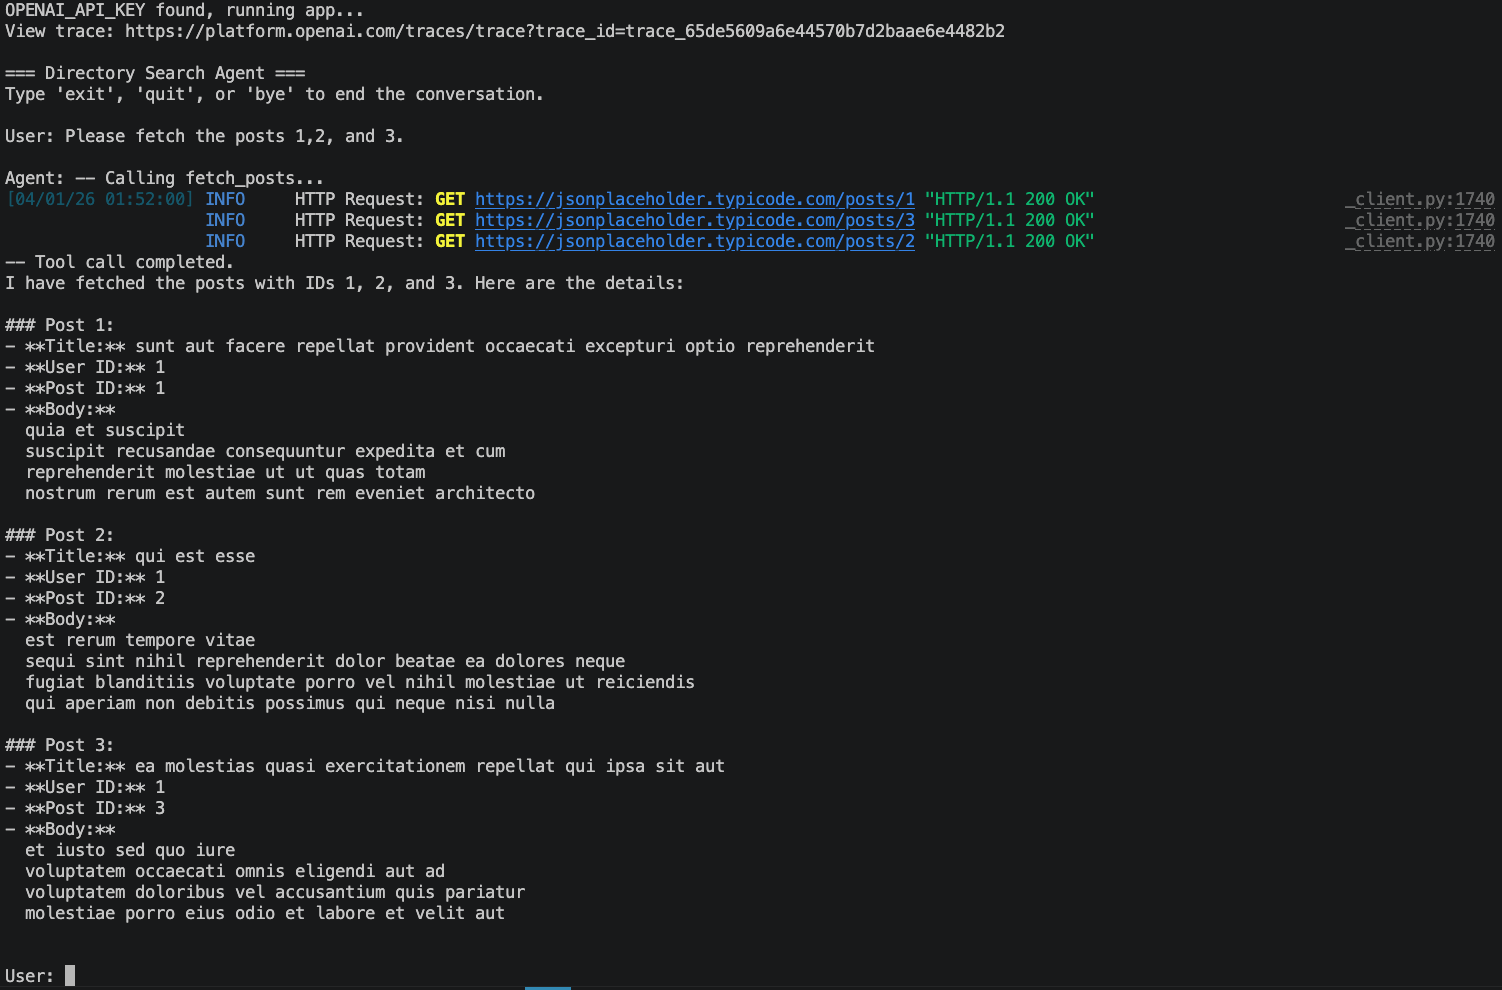
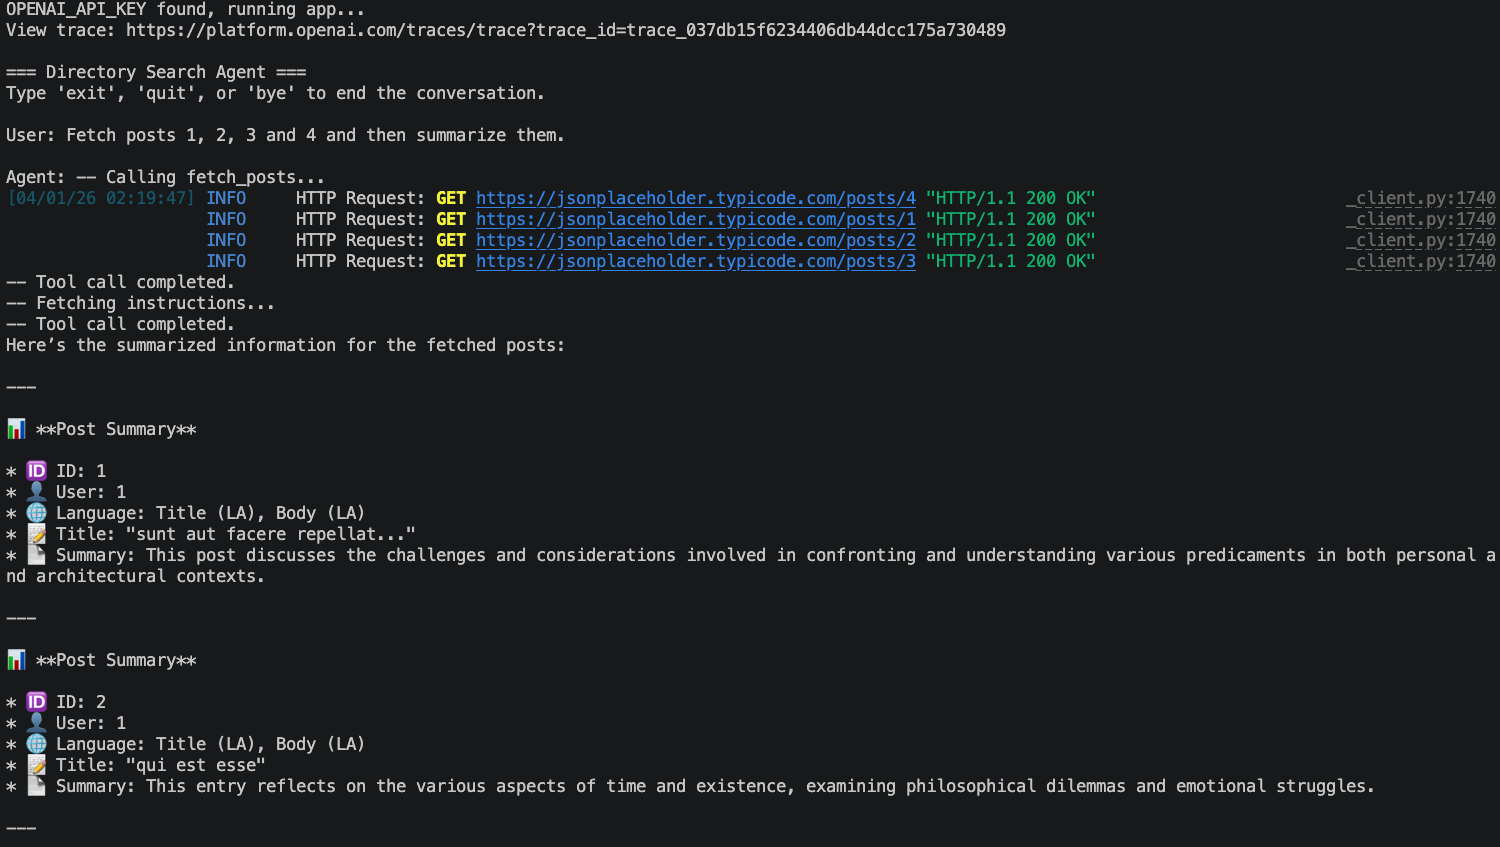
Changed model and md file for posts summary

diff --git a/mcp-server/search-mcp.py b/mcp-server/search-mcp.py
@@ -93,7 +93,7 @@ def fetch_search_instructions(prompt_name: str) -> str:
         - generate_documentation
         - extract_structured_data
         - report_path_type_check
-        - write_post_summary
+        - write_posts_summary
         - write_s3_file_summary
 
     Returns:
@@ -184,7 +184,7 @@ def check_path_type(paths: list[str]) -> dict:
     return result
 
 
-async def fetch_single_post(client: httpx.AsyncClient, post_id: int) -> dict:
+async def _fetch_single_post(client: httpx.AsyncClient, post_id: int) -> dict:
     url = f"https://jsonplaceholder.typicode.com/posts/{post_id}"
 
     try:
@@ -214,7 +214,7 @@ async def fetch_posts(request: PostRequest) -> dict:
     """
 
     async with httpx.AsyncClient() as client:
-        tasks = [fetch_single_post(client, post.post_id) for post in request.posts]
+        tasks = [_fetch_single_post(client, post.post_id) for post in request.posts]
 
         results = await asyncio.gather(*tasks)
 

diff --git a/main.py b/main.py
@@ -56,7 +56,7 @@ async def run(mcp_server: MCPServer):
         name="Directory Search Agent",
         instructions=instructions,
         mcp_servers=[mcp_server],
-        model="gpt-3.5-turbo",
+        model="gpt-4o-mini-2024-07-18",
     )
 
     conversation_history = []

diff --git a/mcp-server/prompts/system_instructions.md b/mcp-server/prompts/system_instructions.md
@@ -17,10 +17,58 @@ Use this tool when you need to open and read the contents of a specific file ide
 Use this tool whenever you need to verify whether a given path is a **file** or a **directory** before performing further operations.
 
 ### fetch_posts
-Use this tool when you need to retrieve data from an external API for multiple post ids. 
 
-- Input: A numeric post ID  
-- Output: A structured JSON object (as a dictionary)
+Use this tool when you need to retrieve data from an external API for **multiple post IDs**.
+
+* **Input**: A structured JSON object with the following format:
+
+```json
+{
+  "request": {
+    "posts": [
+      { "post_id": <number> },
+      { "post_id": <number> }
+    ]
+  }
+}
+```
+
+* **Constraints**:
+
+  * Each `post_id` must be a **positive integer**
+  * Maximum of **20 post IDs** per request
+  * Duplicate IDs are **automatically removed**
+
+* **Output**: A structured JSON object:
+
+```json
+{
+  "count": <number>,
+  "results": [
+    {
+      "post_id": <number>,
+      "data": {
+        "userId": <number>,
+        "id": <number>,
+        "title": <string>,
+        "body": <string>
+      }
+    },
+    {
+      "post_id": <number>,
+      "error": <string>
+    }
+  ]
+}
+```
+
+* Each result corresponds to one requested `post_id`
+* Results may include:
+
+  * ✅ `data` for successful fetches
+  * ❌ `error` if the post was not found or the request failed
+* The order of results matches the processed (deduplicated) input
+
 
 ### read_s3_file_content
 Use this tool when you need to read a file from an S3 bucket. 
@@ -37,7 +85,7 @@ Use this tool to get **specialized instructions** for common user requests, incl
 - Generating documentation from code  
 - Extracting structured information from files
 - Report on the number of files and directories
-- Write a summary for a post fetched from an api
+- Write a summary for posts fetched from an api
 - Write a summary for a file's content fetched from S3
 
 To fetch the correct instructions, pass one of the following **exact** prompts:
@@ -45,7 +93,7 @@ To fetch the correct instructions, pass one of the following **exact** prompts:
 - generate_documentation  
 - extract_structured_data 
 - report_path_type_check 
-- write_post_summary
+- write_posts_summary
 - write_s3_file_summary
 
 **Important:** Do **not** guess how to complete these tasks. Always fetch the instructions and follow them exactly.

diff --git a/mcp-server/prompts/write_posts_summary.md b/mcp-server/prompts/write_posts_summary.md
@@ -1,0 +1,119 @@
+# Write Post Summary Instructions
+
+Use this prompt when the user asks to **summarize the result of `fetch_posts`**.
+
+---
+
+## Instructions
+
+* You are given a structured JSON object representing the response of `fetch_posts` with the following structure:
+
+```json
+{
+  "count": <number>,
+  "results": [
+    {
+      "post_id": <number>,
+      "data": {
+        "userId": <number>,
+        "id": <number>,
+        "title": <string>,
+        "body": <string>
+      }
+    },
+    {
+      "post_id": <number>,
+      "error": <string>
+    }
+  ]
+}
+```
+
+* The `results` array may contain:
+
+  * ✅ Successful responses (`data`)
+  * ❌ Error entries (`error`)
+
+* Generate a concise and informative summary for **each item** in `results`.
+
+---
+
+## Required Elements
+
+### ✅ If `data` exists:
+
+Include:
+
+* 🆔 **Post ID**
+* 👤 **User ID**
+* 📝 **Title Summary** (shortened version of the title)
+* 📄 **Body Summary** (1–2 sentence summary of the content)
+* 🌐 **Language Detection**
+
+  * Detect the language of both the **title** and the **body**
+  * Use **ISO-style abbreviations** (e.g., EN, DE, FR)
+
+---
+
+### ❌ If `error` exists:
+
+Include:
+
+* 🆔 **Post ID**
+* ⚠ **Error Message**
+
+---
+
+## Output Format
+
+Use a clean and readable structure with emojis.
+
+For multiple results, output each summary separately:
+
+---
+
+📊 **Post Summary**
+
+* 🆔 ID: <id>
+* 👤 User: <userId>
+* 🌐 Language: Title (<LANG>), Body (<LANG>)
+* 📝 Title: <shortened title>
+* 📄 Summary: <body summary>
+
+---
+
+📊 **Post Summary (Error)**
+
+* 🆔 ID: <post_id>
+* ⚠ Error: <error message>
+
+---
+
+## Additional Guidelines
+
+* Iterate over **all results**
+* Preserve the **original order** of results
+* Keep summaries concise and informative
+* Do not repeat full text unless necessary
+* Do not invent missing information
+* Clearly distinguish between **successful** and **failed** results
+* If required fields are missing, indicate this explicitly
+
+---
+
+## Example
+
+📊 **Post Summary**
+
+* 🆔 ID: 1
+* 👤 User: 3
+* 🌐 Language: Title (EN), Body (EN)
+* 📝 Title: "Introduction to API usage"
+* 📄 Summary: This post explains the basics of using APIs, including requests, endpoints, and common response formats.
+
+---
+
+📊 **Post Summary (Error)**
+
+* 🆔 ID: 999
+* ⚠ Error: Post not found
